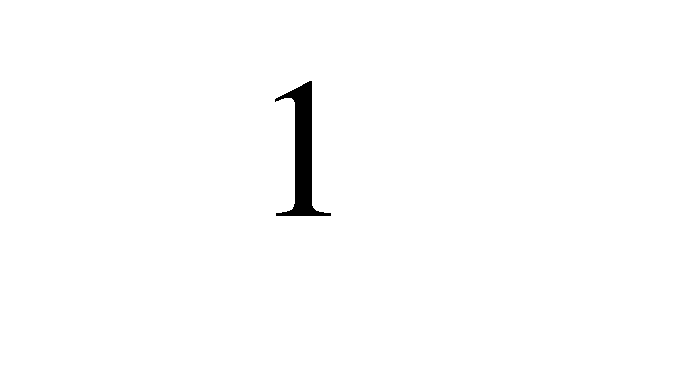
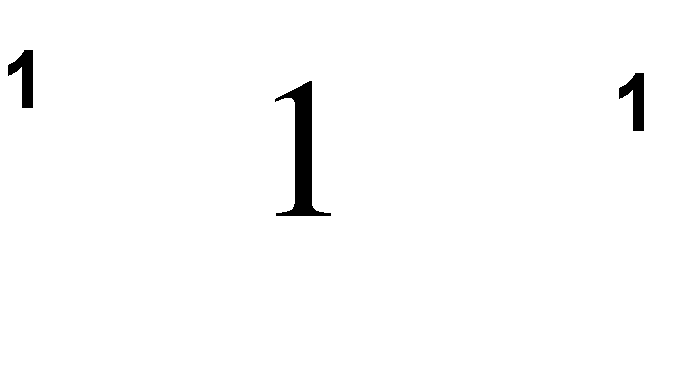
fixed the animation of changing images when pressing the buttons of the pagination less

Changed region(s): [[0.8917, 0.1875, 0.9531, 0.3438], [0.0, 0.125, 0.0615, 0.2812]]

diff --git a/js/slider.js b/js/slider.js
@@ -80,7 +80,6 @@ window.onload = function () {
     }
 
     function addNextImage() {
-
         let rightImg = document.createElement('img');
         if (imgIndex >= links.length - 1) {
             imgIndex = 0;
@@ -250,7 +249,7 @@ window.onload = function () {
             paginationImgBlock.removeChild(paginationImgBlock.firstChild);
         }
     }
-    
+
     paginationImgBlock.onclick = function (event) {
         let target = event.target;
         if (target.id === "moreImg") {
@@ -335,7 +334,6 @@ window.onload = function () {
             if (indexWaitImage === numberPushButton) {
                 for (let i = 0; i < buttonArr.length; i++) {
                     if (+buttonArr[i].innerText === numberPushButton) {
-
                         if (indexWaitImage > activeButton) {
                             addNextImageFromPagination();
                             break outer;
@@ -388,6 +386,8 @@ window.onload = function () {
     }
 
     function addPrevImageFromPagination() {
+
+
         let linkNewImage = 0;
         let leftImg = document.createElement('img');
         for (let i = 0; i < links.length; i++) {
@@ -405,24 +405,30 @@ window.onload = function () {
         sliderBlock.insertBefore(leftImg, sliderBlock.children[0]);
         slides = document.querySelectorAll('.slide-single');
 
-        offset = 0;
-        let step3 = slides.length;
-        for (let i = slides.length - 1; i >= 0; i--) {
-            if (step3 > 0) {
-                offset = 1;
-                step3--;
-            } else {
-                offset = 0;
-            }
-            slides[i].style.left = offset * 100 + '%';
-            step3--
-        }
-        findIndexLastImg(slides[0]);
-        addPrevImage();
-        slides[1].remove();
-        findIndexLastImg(slides[0]);
-        addNextImage();
-        addClassButton();
-        numberPushButton = 0;
+
+      setTimeout(function () {
+          let step3 = slides.length;
+          offset = 0;
+          for (let i = slides.length - 1; i >= 0; i--) {
+              if (step3 - 1 > 0) {
+                  offset = 1;
+                  step3--;
+              } else {
+                  offset = 0;
+              }
+              slides[i].style.left = offset * 100 + '%';
+          }
+
+      }, 200);
+
+      setTimeout(function () {
+          findIndexLastImg(slides[0]);
+          addPrevImage();
+          slides[1].remove();
+          findIndexLastImg(slides[0]);
+          addNextImage();
+          addClassButton();
+          numberPushButton = 0;
+      },2000);
     }
 };

diff --git a/style/less/main-first-block.less b/style/less/main-first-block.less
@@ -15,7 +15,7 @@
     margin: 0 auto;
     position:relative;
     display: block;
-    overflow: hidden;
+    //overflow: hidden;
     border: 5px solid @darkGray;
 }
 

diff --git a/style/dest/main.css b/style/dest/main.css
@@ -379,7 +379,6 @@ body {
   margin: 0 auto;
   position: relative;
   display: block;
-  overflow: hidden;
   border: 5px solid #b8b8b8;
 }
 .slide-single {

diff --git a/style/main.css b/style/main.css
@@ -384,7 +384,6 @@ body {
   margin: 0 auto;
   position: relative;
   display: block;
-  overflow: hidden;
   border: 5px solid #b8b8b8;
 }
 .slide-single {
